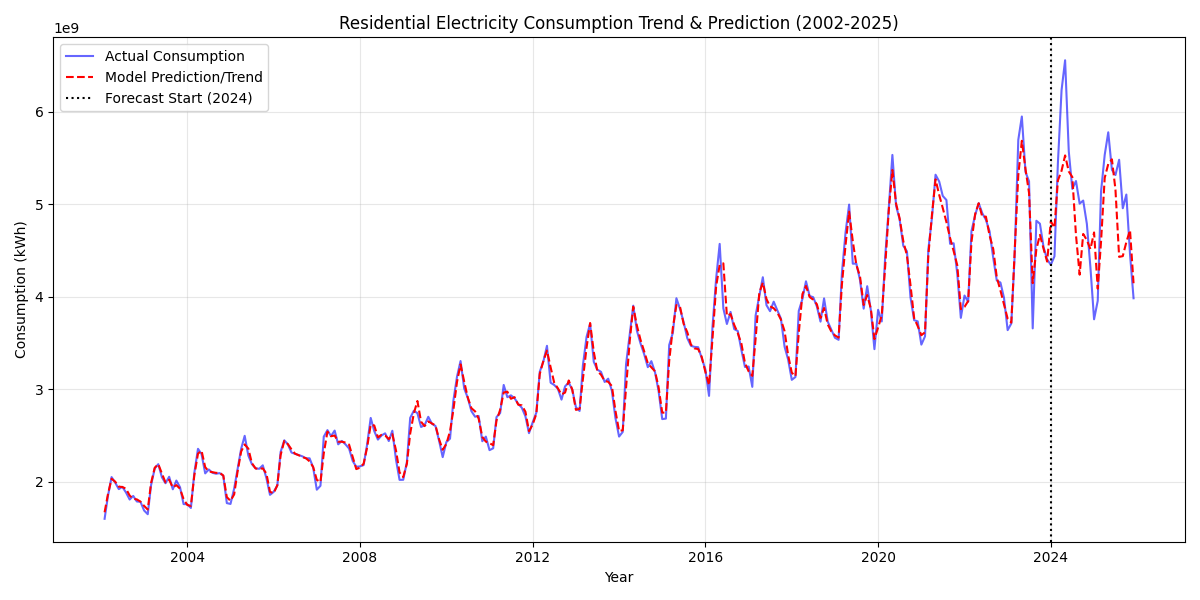
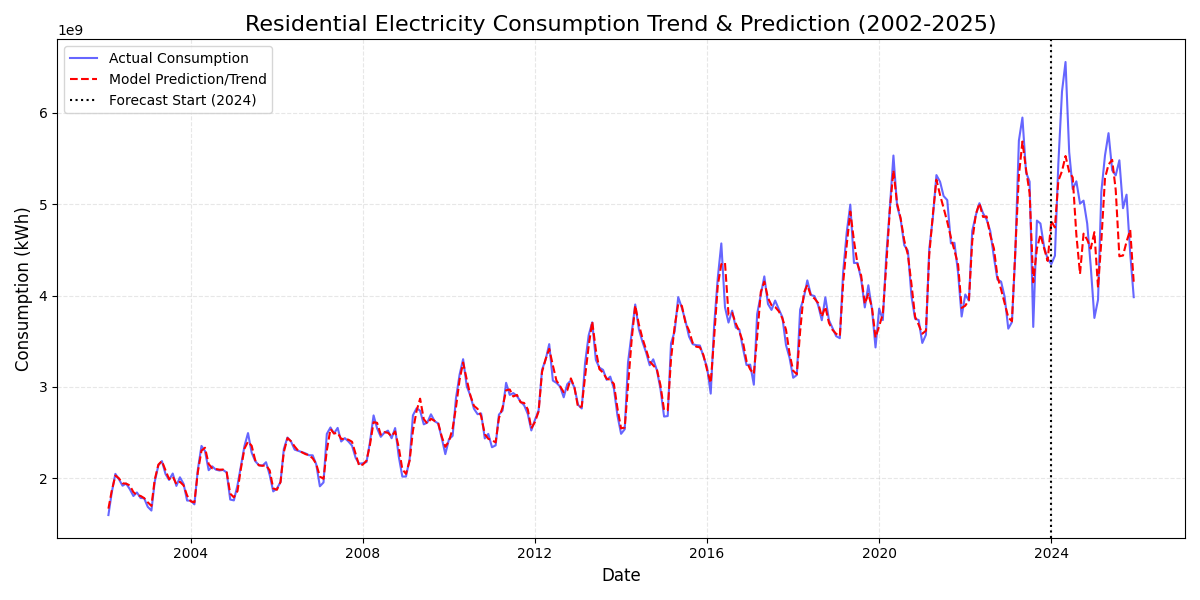
edited more code to be readable

diff --git a/code_for_computing/gradientboost.py b/code_for_computing/gradientboost.py
@@ -5,22 +5,23 @@ from sklearn.ensemble import GradientBoostingRegressor
 from sklearn.metrics import mean_absolute_percentage_error
 import os
 
-# 1. Load and Prepare Data
+# 1. Load Datasets
 curr_dir = os.path.dirname(__file__)
 elec_df = pd.read_csv(os.path.relpath('..\\cleaned_data\\df3_dataset_11_37_clean.csv',curr_dir))
 temp_df = pd.read_csv(os.path.relpath('..\\cleaned_data\\THA_1950_2100.csv',curr_dir))
 
+# Preprocessing: Convert dates and filter for 'Residential'
 elec_df['date'] = pd.to_datetime(elec_df['date'])
 temp_df['date'] = pd.to_datetime(temp_df['date'])
 
-# Filter for Residential
-elec_res = elec_df[elec_df['type'] == 'Residential'].sort_values('date')
+sector_types = ["Residential", "Business","Industrial", "Government & Non-Profit", "Agriculture", "Other", "Free of Charge"]
+elec_res = elec_df[elec_df['type'] == sector_types[0]].sort_values('date')
 
 # Pivot temperature to get average (tas) and max (tasmax) temperatures
 temp_pivot = temp_df[temp_df['variable'].isin(['tas', 'tasmax'])].pivot(
     index='date', columns='variable', values='value').reset_index()
 
-# Merge consumption and temperature
+# Merge consumption and temperature data
 df = pd.merge(elec_res, temp_pivot, on='date', how='inner')
 df = df[(df['date'] >= '2002-01-01') & (df['date'] <= '2025-12-31')]
 
@@ -34,15 +35,17 @@ df['CDD'] = df['tas'].apply(lambda x: max(0, x - 25))  # Cooling Degree Days pro
 
 df = df.dropna()
 
-# 3. Gradient Boosting Model
+# 3. Model Training
+# Define features and target
 features = ['year', 'month', 'tas', 'tasmax', 'CDD', 'lag_1', 'lag_12', 'rolling_mean_3']
 X = df[features]
 y = df['electricity_consumption_kWh']
 
-# Train on data before 2024
+# Split: Train on data before 2024, Test on 2024-2025
 train_mask = df['date'] < '2024-01-01'
 X_train, y_train = X[train_mask], y[train_mask]
 X_test, y_test = X[~train_mask], y[~train_mask]
+# Initialize and fit GradientBoosting
 model = GradientBoostingRegressor(n_estimators=200, learning_rate=0.05, max_depth=5, random_state=42)
 model.fit(X_train, y_train)
 df['predicted_kWh'] = model.predict(X)
@@ -58,9 +61,9 @@ plt.xlabel('Date', fontsize=12)
 plt.ylabel('Consumption (kWh)', fontsize=12)
 plt.legend(loc='upper left')
 plt.grid(True, which='both', linestyle='--', alpha=0.3)
-plt.tight_layout()
 
-# Save the plot
+# Need to save first before show (if close == no save)
+plt.tight_layout()
 plt.savefig('improved_gradient_model.png')
 plt.show()
 # Print performance

diff --git a/code_for_computing/randomforest.py b/code_for_computing/randomforest.py
@@ -39,29 +39,27 @@ y = df['electricity_consumption_kWh']
 train_mask = df['date'] < '2024-01-01'
 X_train, y_train = X[train_mask], y[train_mask]
 X_test, y_test = X[~train_mask], y[~train_mask]
-
 # Initialize and fit RandomForest
 model = RandomForestRegressor(n_estimators=100, random_state=42, bootstrap=True)
 model.fit(X_train, y_train)
-# Generate predictions for the entire period to visualize trend
 df['predicted_kWh'] = model.predict(X)
 
-# 4. Visualization
+# 4. Visualization & Saving Plot
 plt.figure(figsize=(12, 6))
 plt.plot(df['date'], df['electricity_consumption_kWh'], label='Actual Consumption', color='blue', alpha=0.6)
 plt.plot(df['date'], df['predicted_kWh'], label='Model Prediction/Trend', color='red', linestyle='--')
 plt.axvline(pd.to_datetime('2024-01-01'), color='black', linestyle=':', label='Forecast Start (2024)')
 
-plt.title('Residential Electricity Consumption Trend & Prediction (2002-2025)')
-plt.xlabel('Year')
-plt.ylabel('Consumption (kWh)')
-plt.legend()
-plt.grid(True, alpha=0.3)
+plt.title('Residential Electricity Consumption Trend & Prediction (2002-2025)', fontsize=16)
+plt.xlabel('Date', fontsize=12)
+plt.ylabel('Consumption (kWh)', fontsize=12)
+plt.legend(loc='upper left')
+plt.grid(True, which='both', linestyle='--', alpha=0.3)
+
 # Need to save first before show (if close == no save)
 plt.tight_layout()
 plt.savefig('randomforest.png')
 plt.show()
-
 # Print performance
 mape = mean_absolute_percentage_error(y_test, model.predict(X_test))
 print(f"Model MAPE (2024-2025): {mape:.2%}")
